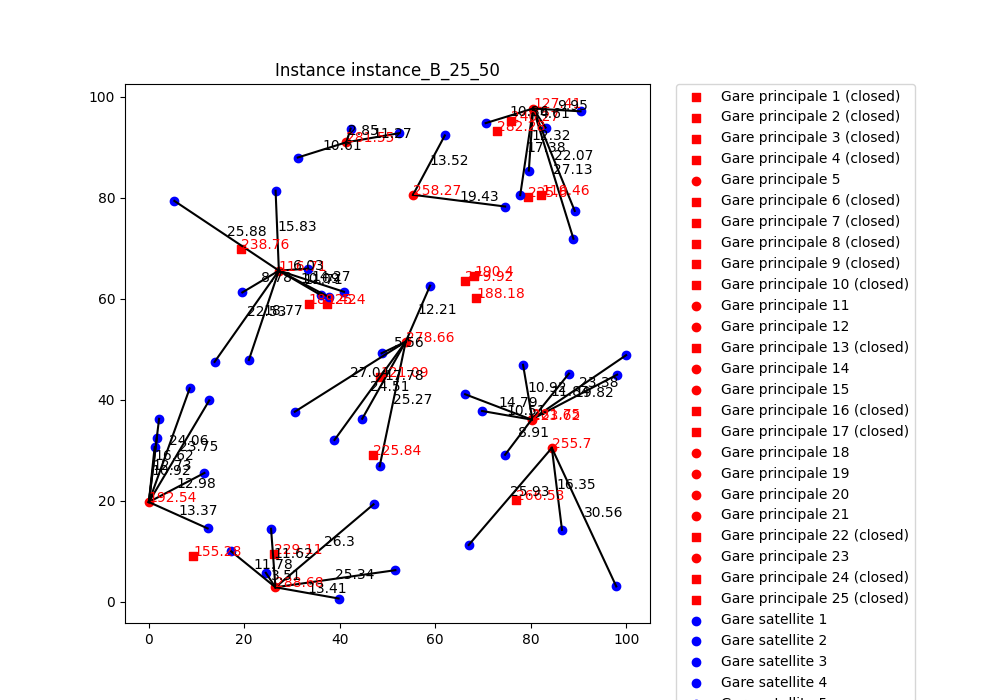
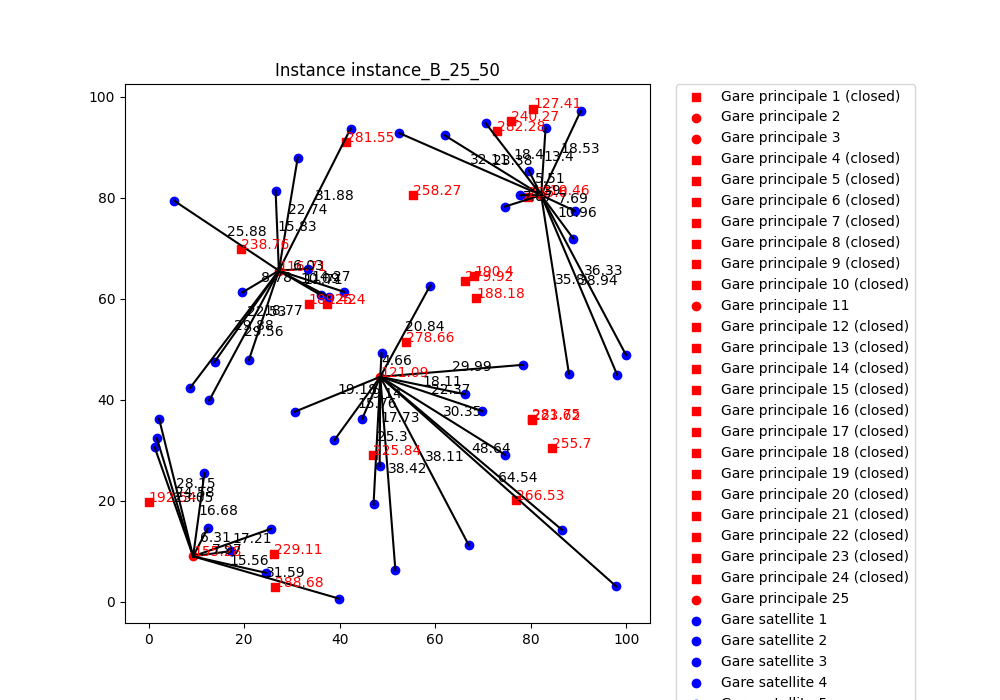
All passed

diff --git a/solver.py b/solver.py
@@ -3,10 +3,11 @@ import random
 from typing import List, Tuple
 import numpy as np
 import time
-def solve(problem: UFLP) -> Tuple[List[int], List[int]]:
+import math
 
 
 
+def solve(problem : UFLP)-> Tuple[List[int], List[int]]:
 
     """
     Votre implementation, doit resoudre le probleme via recherche locale.
@@ -20,12 +21,28 @@ def solve(problem: UFLP) -> Tuple[List[int], List[int]]:
         La seconde valeur est une liste représentant les associations des stations satellites au format [1 , 4] qui indique que la premiere station est associée à la station pricipale d'indice 1 et la deuxieme à celle d'indice 4
     """
 
-    
-    sol = generate_random_sol(problem)
+    best_sol = generate_random_sol(problem)
     start_time = time.time()
     
     while(time.time() - start_time < 2*60):  #2min
-        V = generate_neigh_1(problem,sol,1)
+        sol = solve_1(problem)
+        if sol[0] < best_sol[0] :
+            best_sol = sol
+    
+    return best_sol[1]
+        
+
+def solve_1(problem: UFLP) -> Tuple[List[int], List[int]]:
+
+    
+    sol = generate_random_sol(problem)
+    
+   
+    
+    start_time = time.time()
+    
+    while(time.time() - start_time < 2*60):  #2min
+        V = generate_neigh_2(problem,sol,1)
         V_validated = validated_function(V,sol[0])
 
         if V_validated != []:
@@ -36,8 +53,32 @@ def solve(problem: UFLP) -> Tuple[List[int], List[int]]:
         else:
             break
     
-    return sol[1]
+    return sol
 
+
+
+
+
+def solve_simulated_a(problem: UFLP) -> Tuple[List[int], List[int]]:
+
+   
+    sol = generate_random_sol(problem)
+    start_time = time.time()
+    
+    temperature = 1000  # valeur initiale
+    cooling_rate = 0.995  # taux de refroidissement
+    
+    while(time.time() - start_time < 2*60):  # 2min
+        V = generate_neigh_1(problem, sol, 1)
+        V_validated = validated_function_degradation(V, sol[0], temperature)
+
+        if len(V_validated) > 0:
+            selected_sol = selection_with_probability(V_validated, sol[0], temperature)
+            sol = selected_sol  # Ici, nous acceptons la nouvelle solution, même si elle est pire
+
+        temperature *= cooling_rate  # réduire la température
+
+    return sol
 
 
 
@@ -59,6 +100,71 @@ def generate_random_sol(problem : UFLP):
 
     return [cost,lists]
 
+def heuristic_initial_solution(problem: UFLP):
+    # Trouver la station principale avec le coût d'ouverture le plus bas
+    cheapest_main_station = min(range(problem.n_main_station), key=lambda i: problem.get_opening_cost(i))
+    
+    # Ouvrir cette station
+    main_stations_opened = [0] * problem.n_main_station
+    main_stations_opened[cheapest_main_station] = 1
+    
+    # Associer chaque station satellite à cette station principale
+    satellite_station_association = [cheapest_main_station] * problem.n_satellite_station
+    
+    # Calculer le coût de cette solution initiale
+    cost = problem.calcultate_cost(main_stations_opened=main_stations_opened, satellite_stations_association=satellite_station_association)
+    
+    return [cost, [main_stations_opened, satellite_station_association]]
+
+
+def heuristic_initial_solution_2(problem: UFLP):
+    # Trié les gares pp par cout
+    list_station = list(range(problem.n_main_station)).sort(key=lambda i: problem.get_opening_cost(i))
+    
+    # Ouvrir 1er station
+    main_stations_opened = [0] * problem.n_main_station
+    main_stations_opened[list_station[0] ] = 1
+    # Associer chaque station satellite à cette station principale
+    
+    satellite_station_association = best_connection(problem,  main_stations_opened)
+    # Calculer le coût de cette solution initiale
+    cost = problem.calcultate_cost(main_stations_opened=main_stations_opened, satellite_stations_association=satellite_station_association)
+    
+    return [cost, [main_stations_opened, satellite_station_association], list_station]
+
+
+
+def best_connection(problem: UFLP,  main_stations_opened):
+    
+    
+    # Initialiser l'association des stations satellites comme vide
+    satellite_station_association = [-1] * problem.n_satellite_station
+    
+    # Parcourir chaque station satellite pour l'associer à la meilleure station principale
+    for s in range(problem.n_satellite_station):
+        best_cost_for_s = float('inf')
+        best_main_station_for_s = -1
+        
+        for m in range(problem.n_main_station):
+            # Calculer le coût si cette station satellite était associée à cette station principale
+            temp_stations_opened = main_stations_opened.copy()
+            temp_stations_opened[m] = 1  # Assumer que la station principale m est ouverte
+            temp_station_association = satellite_station_association.copy()
+            temp_station_association[s] = m  # Associer la station satellite s à m
+            
+            temp_cost = problem.calcultate_cost(main_stations_opened=temp_stations_opened, satellite_stations_association=temp_station_association)
+            
+            # Mettre à jour le meilleur coût et la meilleure station principale pour cette station satellite
+            if temp_cost < best_cost_for_s:
+                best_cost_for_s = temp_cost
+                best_main_station_for_s = m
+                
+        # Mettre à jour la solution globale avec la meilleure association pour cette station satellite
+        main_stations_opened[best_main_station_for_s] = 1
+        satellite_station_association[s] = best_main_station_for_s
+        
+    
+    return satellite_station_association
 
 # def generate_neigh_1(problem, sol, nb_changes):
 #     print(sol)
@@ -97,6 +203,8 @@ def generate_random_sol(problem : UFLP):
 
 from itertools import combinations
 
+
+#Mvt = changement de connexion
 def generate_neigh_1(problem, sol, nb_changes):
     V = []
     
@@ -125,15 +233,74 @@ def generate_neigh_1(problem, sol, nb_changes):
                 
             if problem.solution_checker(main_stations_opened=new_sol[0], satellite_stations_association=new_sol[1]):
                 cost = problem.calcultate_cost(main_stations_opened=new_sol[0], satellite_stations_association=new_sol[1])
+                
                 V.append([cost, new_sol])
 
     return V
 
+#Mvt = Ouverture/fermeture d'une gare PP, puis best connection
+from typing import List, Tuple
+import copy
+import itertools
+
+def generate_neigh_2(problem, sol: Tuple[int, List[int]], nb_changes: int) -> List[Tuple[int, List[int]]]:
+    V = []
+    
+    # Générer toutes les combinaisons possibles de `nb_changes` stations principales
+    for pp_combination in combinations(range(problem.n_main_station), nb_changes):
+        for open_close in itertools.product([0, 1], repeat=nb_changes):  # 0 pour fermer, 1 pour ouvrir
+            new_sol = [list(x) for x in sol[1]]  # Créer une copie profonde de la solution actuelle
+            
+            # Appliquer les ouvertures/fermetures
+            for pp, oc in zip(pp_combination, open_close):
+                new_sol[0][pp] = oc
+                
+            # Assurer qu'au moins une gare principale est ouverte
+            if sum(new_sol[0]) == 0:
+                continue
+            
+            # Utiliser la fonction best_connection pour trouver les meilleures connexions
+            new_sol[1] = best_connection(problem, new_sol[0])
+            
+            # Vérifier la validité de la nouvelle solution et calculer son coût
+            if problem.solution_checker(main_stations_opened=new_sol[0], satellite_stations_association=new_sol[1]):
+                cost = problem.calcultate_cost(main_stations_opened=new_sol[0], satellite_stations_association=new_sol[1])
+                V.append([cost, new_sol])
+                
+    return V
 
 def validated_function(V,actual_cost):
 
     return [v for v in V if v[0] < actual_cost] 
 
+
+def validated_function_degradation(V, actual_cost, temperature):
+    validated = []
+    for v in V:
+        delta_cost = v[0] - actual_cost
+        if delta_cost < 0:
+            validated.append(v)
+        elif random.random() < math.exp(-delta_cost / temperature):
+            validated.append(v)
+    return validated
+
 def selection(V):
-    print(V)
+    
     return min(V, key=lambda x: x[0])
+
+def first_selection(V):
+    
+    return V[0]
+
+def random_selection(V):
+
+    return random.choice(V)
+
+
+def selection_with_probability(V, actual_cost, temperature):
+    exp_values = [math.exp(-(v[0] - actual_cost) / temperature) for v in V]
+    sum_exp_values = sum(exp_values)
+
+    probabilities = [exp_value / sum_exp_values for exp_value in exp_values]
+
+    return random.choices(V, weights=probabilities, k=1)[0]
